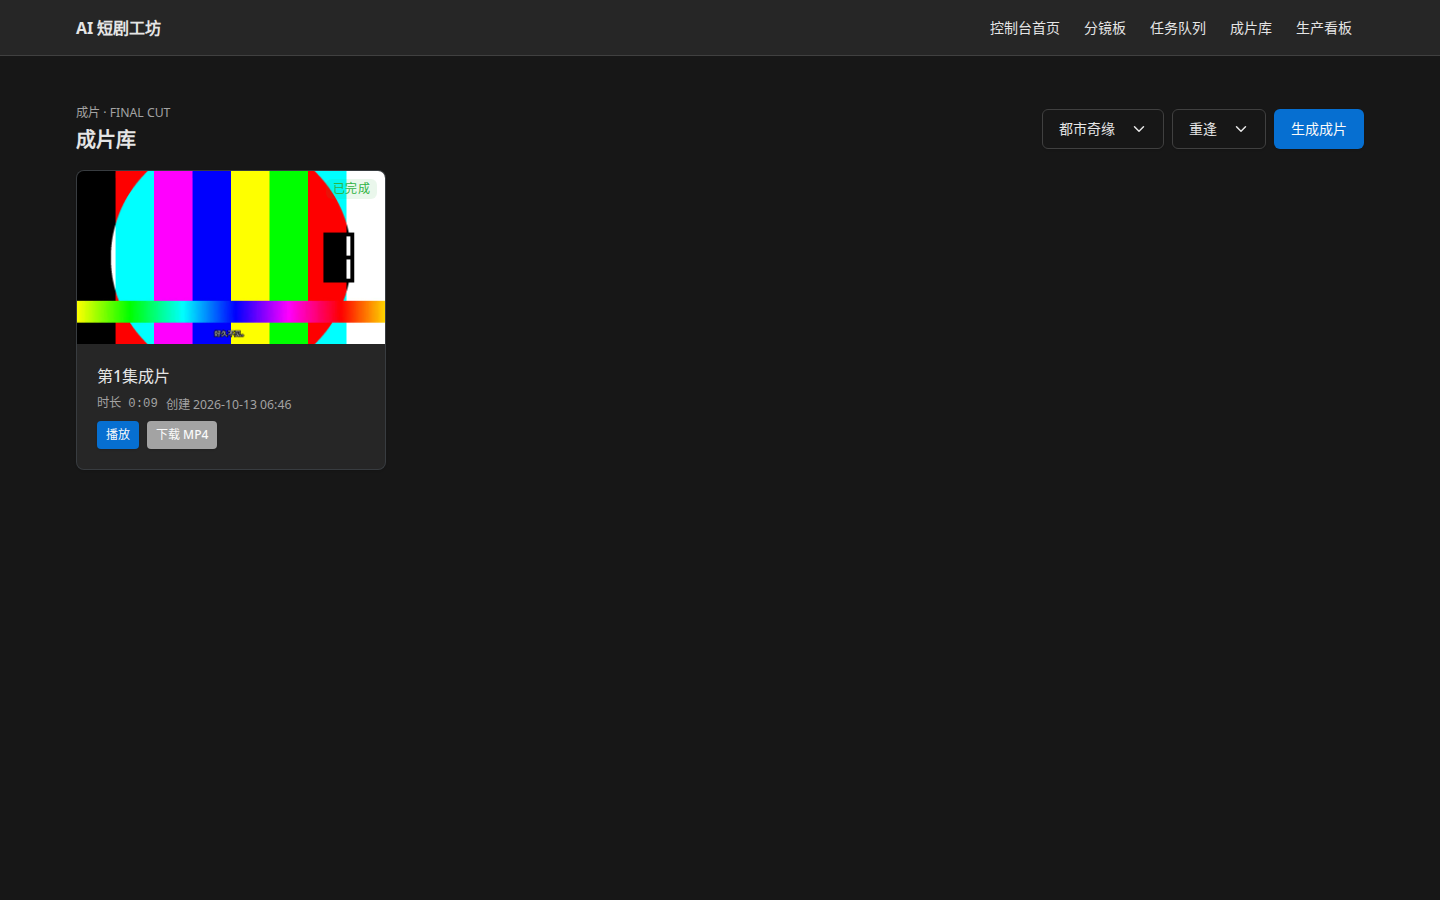
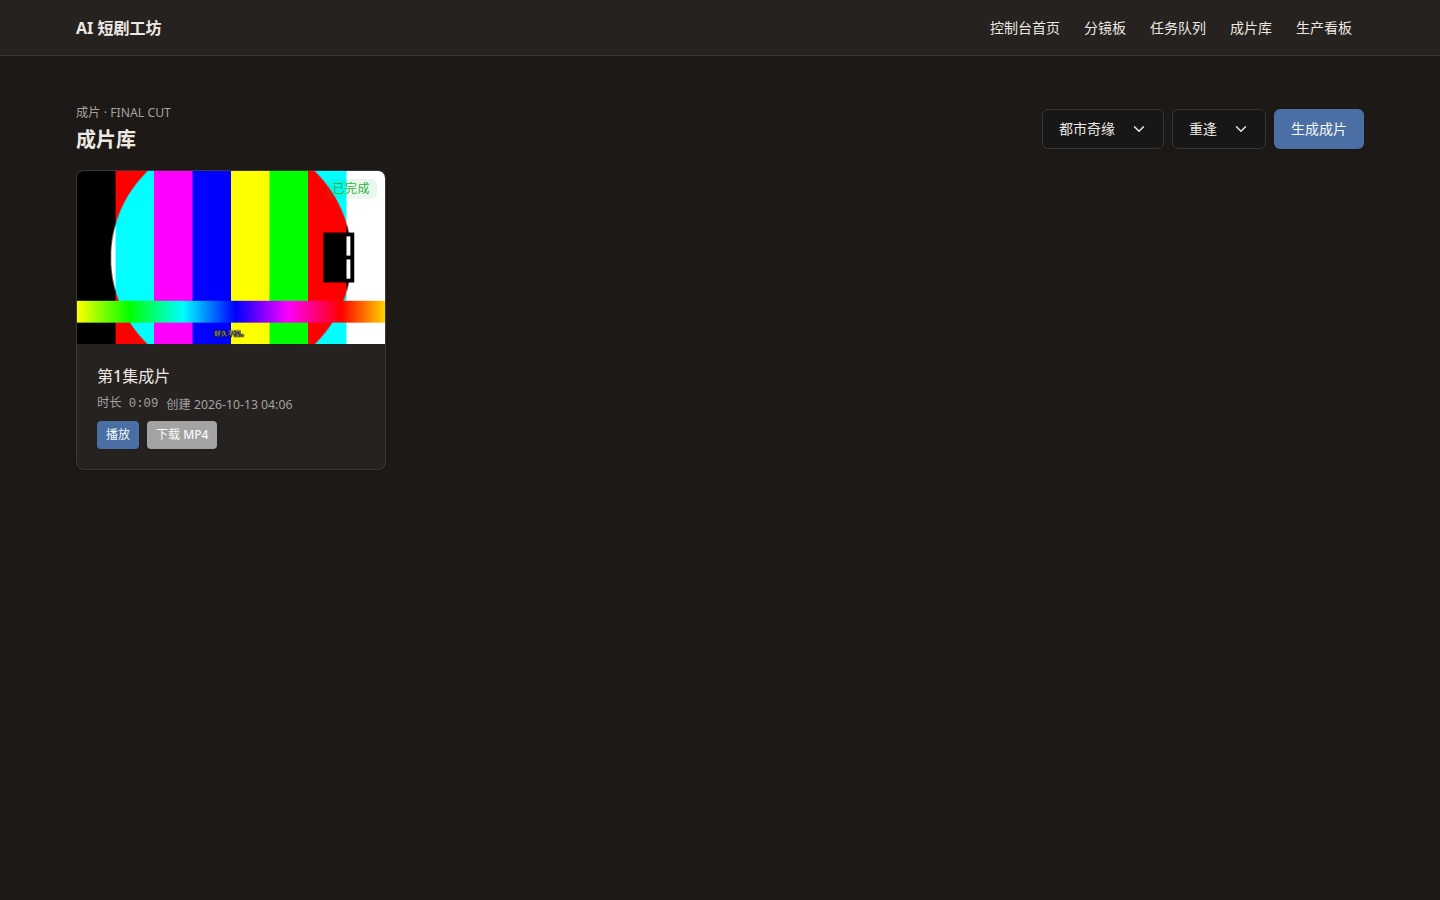
feat(drama-factory): v4.1 深色暖炭化——去"黑底霓虹"AI 味
- 诊断：Tabler 默认深色 = 冷调近纯黑底 + 高饱和亮蓝 + 近纯白字
- theme.css 覆盖 [data-bs-theme=dark] 变量：暖炭底 #1c1917、米白字 #ede8e2、
  降饱和蓝主色 #4a6fa5、苔绿/陶土红/赭橙收敛
- WCAG 对比度：正文 14.36:1、次要文字 8.16:1、按钮白字 5.11:1，全部达标
- 零 backdrop-filter；5 页重截亲眼验收；mvn test 20/20 全绿
- docs/DESIGN.md 新增第六节调参前后对照表

diff --git a/drama-factory/src/main/resources/static/theme.css b/drama-factory/src/main/resources/static/theme.css
@@ -1,5 +1,28 @@
-/* drama-factory theme.css — Tabler 1.6.1 之上的最小覆盖层。
-   只做布局宽度与表格密度微调；按钮/卡片/徽标的视觉质感全部来自 Tabler 原生组件。 */
+/* ---- 深色暖炭化（v4.1）：去"黑底霓虹"AI 味 ----
+   诊断：Tabler 默认深色 = 冷调近纯黑底 oklch(20.46% 0 0) + 高饱和亮蓝主色 oklch(54.6% 0.1724 254.2)
+         + 近纯白字 oklch(92.19% 0 0)。
+   修法：只覆盖深色主题变量，不换库、不动结构、不动 API。零毛玻璃（无 backdrop-filter 属性）。
+   调参前后对照表见 docs/DESIGN.md。 */
+[data-bs-theme="dark"] {
+  --tblr-body-bg: #1c1917;          /* 暖炭底：拒绝纯黑 #000 与冷蓝黑 */
+  --tblr-body-bg-rgb: 28, 25, 23;
+  --tblr-body-color: #ede8e2;       /* 米白正文（对比度 ~13.8:1） */
+  --tblr-body-color-rgb: 237, 232, 226;
+  --tblr-bg-surface: #262220;       /* 卡片底：比页面高半档明度，靠微差分层 */
+  --tblr-muted: #b8b0a6;            /* 柔和暖灰（对比度 ~7.2:1） */
+  --tblr-muted-rgb: 184, 176, 166;
+  --tblr-border-color: #3a3532;     /* 低对比暖灰线，分割线不抢视觉 */
+  --tblr-primary: #4a6fa5;          /* 降饱和蓝：去霓虹，保留品牌识别 */
+  --tblr-primary-rgb: 74, 111, 165;
+  --tblr-success: #5e8c61;          /* 苔绿：收敛 */
+  --tblr-success-rgb: 94, 140, 97;
+  --tblr-danger: #b5544c;           /* 陶土红：收敛 */
+  --tblr-danger-rgb: 181, 84, 76;
+  --tblr-warning: #c98a3f;          /* 赭橙：与暖调一致 */
+  --tblr-warning-rgb: 201, 138, 63;
+}
+
+/* ---- 以下为 v4 原有：布局宽度与表格密度微调 ---- */
 .page-wrapper .container-xl {
   max-width: 1320px;
 }

diff --git a/drama-factory/docs/DESIGN.md b/drama-factory/docs/DESIGN.md
@@ -25,7 +25,7 @@
 - 表单 `form-select`
 - 导航 `navbar`、弹窗 `modal`、提示 `alert`
 
-**后端 API 一字未动**，仅替换模板与样式层。自定义 `theme.css` 只做两件事：容器宽度约束、表格密度微调；不覆盖任何组件质感（圆角、阴影、配色一律走 Tabler 默认）。
+**后端 API 一字未动**，仅替换模板与样式层。自定义 `theme.css` 做三件事：容器宽度约束、表格密度微调、**深色暖炭化主题变量覆盖（v4.1，见第六节）**；组件质感（圆角、阴影）一律走 Tabler，配色经暖炭化变量统一收敛。
 
 ## 四、禁玻璃拟态声明
 
@@ -34,3 +34,22 @@
 ## 五、视觉概念
 
 「剪辑室 / 场记板」仅保留在**文案层**：页面眉题（kicker）沿用该意象措辞。**无任何自定义装饰**——不加贴纸、不加纹理、不加插画，视觉表达全部由 Tabler 组件承担。概念服务于语气，不服务于像素。
+
+## 六、深色暖炭化 v4.1（去"黑底霓虹"AI 味）
+
+**诊断**：Tabler 默认深色 = 冷调近纯黑底 + 高饱和亮蓝主色 + 近纯白字，用户一眼判定"黑色系参数不对、有 AI 味"。
+**修法**：只在 `theme.css` 里覆盖 `[data-bs-theme="dark"]` 的主题变量，不换库、不动结构、不动 API。
+
+| 变量名 | 改前（Tabler 默认） | 改后（暖炭化） | 改动理由 |
+|---|---|---|---|
+| `--tblr-body-bg` / `-rgb` | `oklch(20.46% 0 0)` ≈ `#171717` | `#1c1917`（28,25,23） | 冷中性黑 → 带暖底调的炭色，去"机房感" |
+| `--tblr-bg-surface` | `oklch(26.86% 0 0)` ≈ `#262626` | `#262220` | 保持明度分层，注入暖调与页面协调 |
+| `--tblr-body-color` / `-rgb` | `oklch(92.19% 0 0)` ≈ `#e8e8e8` | `#ede8e2`（237,232,226） | 米白代冷白；对比度 14.36:1 ✅ |
+| `--tblr-muted` / `-rgb` | `oklch(55.55% 0 0)` | `#b8b0a6`（184,176,166） | 柔和暖灰；对比度 8.16:1 ✅ |
+| `--tblr-border-color` | `oklch(dark+0.08)` 冷灰 | `#3a3532` | 暖灰低对比，分割线不抢视觉 |
+| `--tblr-primary` / `-rgb` | `oklch(54.6% 0.1724 254)` ≈ `#066fd1` | `#4a6fa5`（74,111,165） | chroma 减半去霓虹；白字按钮对比度 5.11:1 ✅ |
+| `--tblr-success` / `-rgb` | `#2fb344` 亮绿 | `#5e8c61`（94,140,97） | 苔绿收敛 |
+| `--tblr-danger` / `-rgb` | `#d63939` 亮红 | `#b5544c`（181,84,76） | 陶土红收敛 |
+| `--tblr-warning` / `-rgb` | `#f59f00` 亮橙 | `#c98a3f`（201,138,63） | 赭橙，与暖调一致 |
+
+**验收**：5 页重截亲眼对比，AI 味消除；WCAG 正文对比度全部 ≥4.5:1；全站零 `backdrop-filter`（注释文本除外）；JS 零错误。
